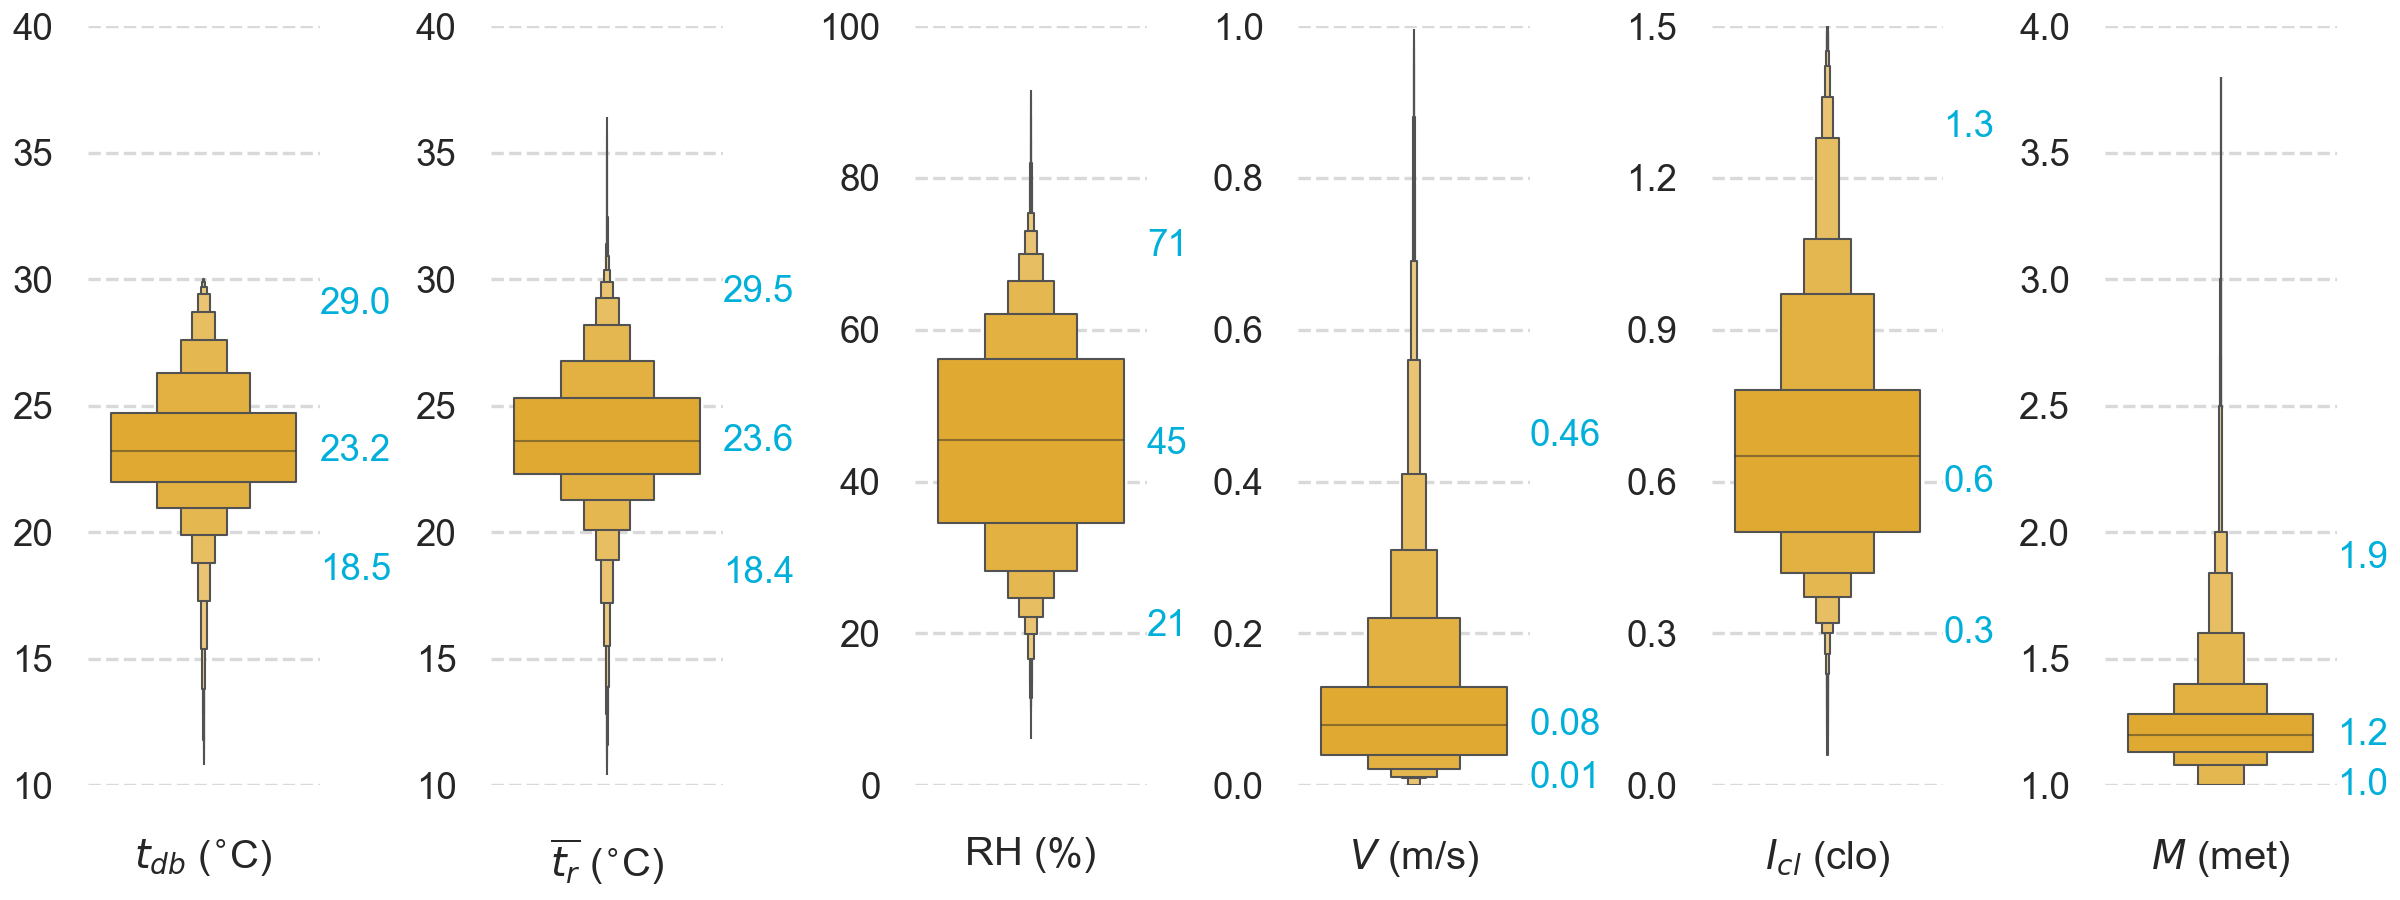
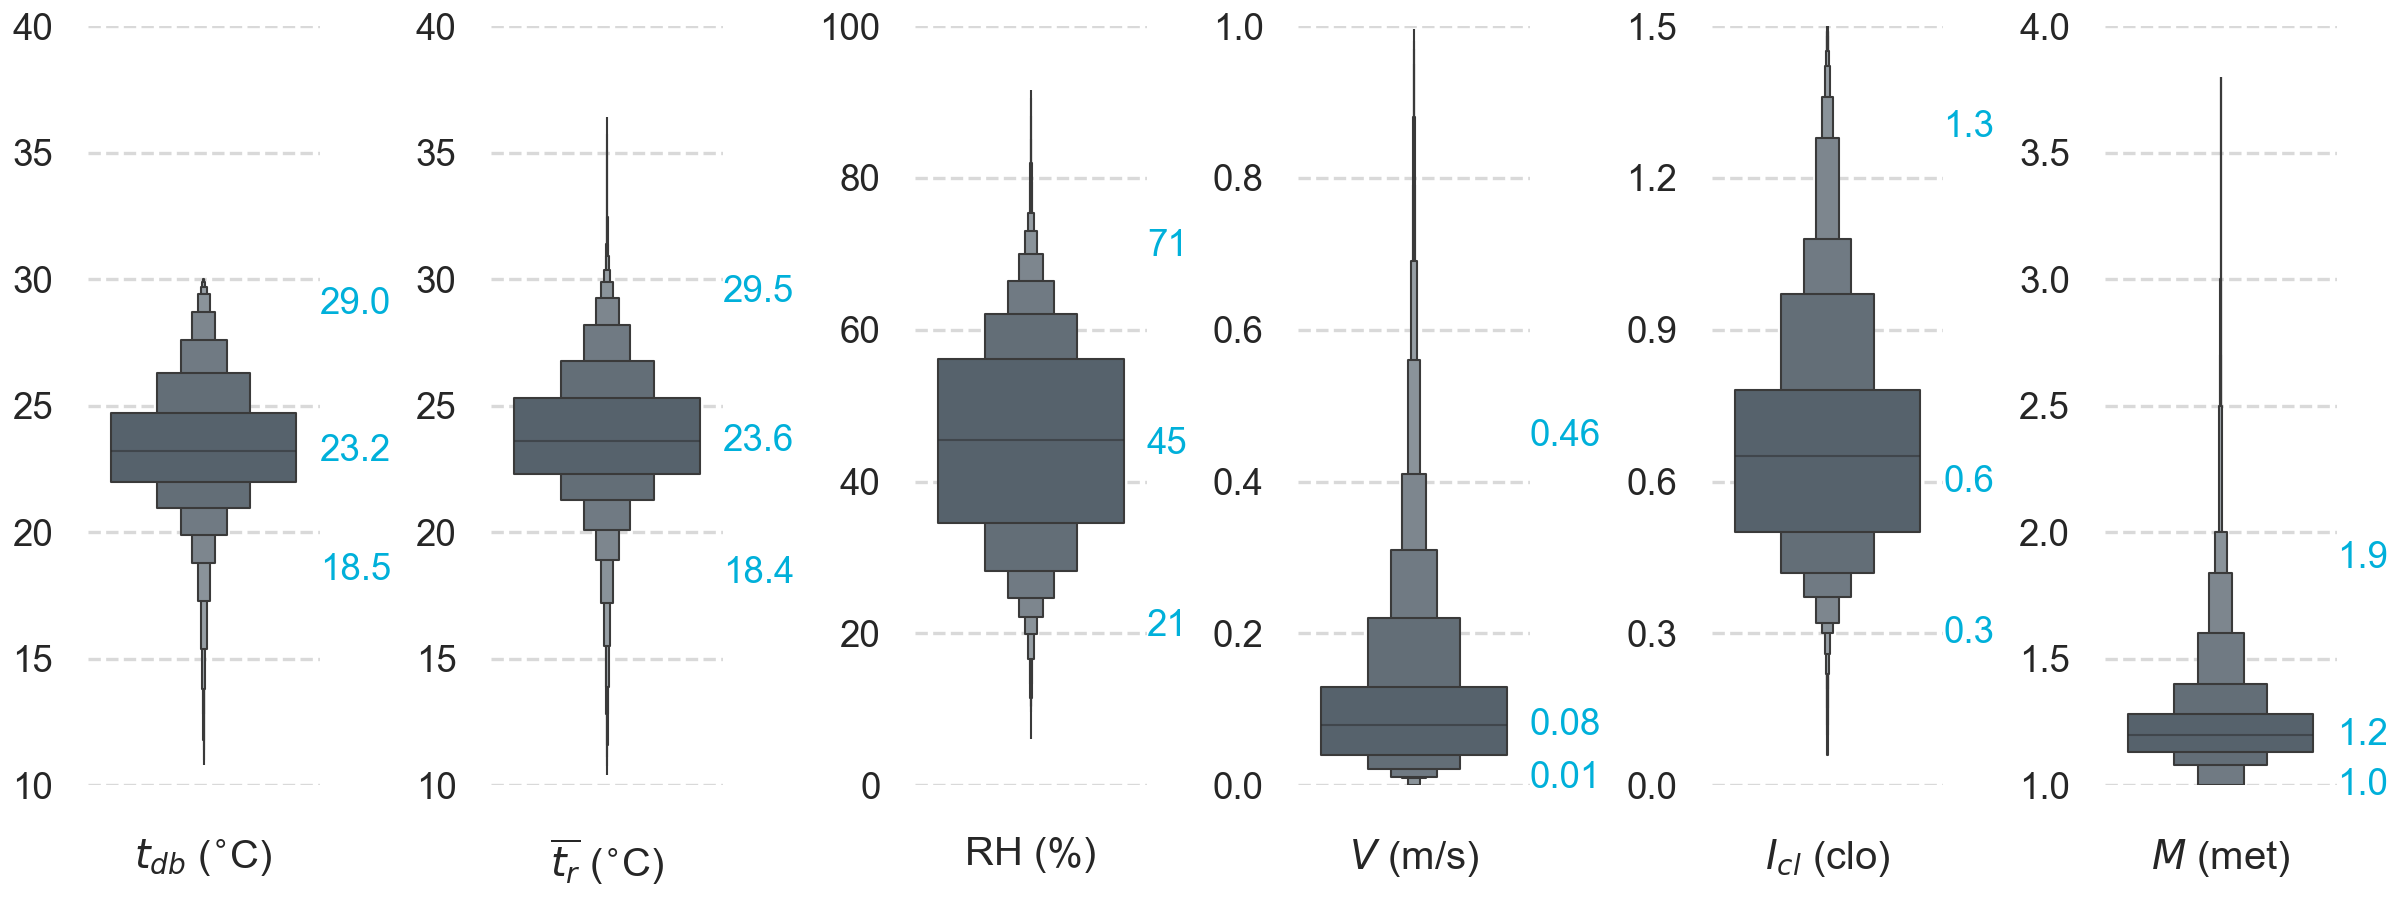
paper: updated more figures

diff --git a/Manuscript/src/sections/results.tex b/Manuscript/src/sections/results.tex
@@ -97,7 +97,9 @@ Being the classification problem unbalanced, the simple accuracy is not an optim
 A model that would have always predicted `neutral' would have achieved an overall accuracy of \var{perc_tsv_neutral}, the number of participants who voted \ac{tsv}=0.
 For this reason, in Table~\ref{tab:f1}, we report the F1-scores for all the models.
 The F1-macro score, which is free from label imbalance, depicts that the accuracy of both models across all metrics is marginally better than random guessing (i.e., \qty{14}{\percent}).
-% todo in the table I should also report the F1 scores if I filter out some of the TSV. The PMV model should only be used in the range -2 and 2 so at least we should report also the results in this range.
+% todo:
+%  in the table I should also report the F1 scores if I filter out some of the TSV.
+%  The PMV model should only be used in the range -2 and 2 so at least we should report also the results in this range.
 \begin{table}[htb!]
     \centering
     \input{tables/f1.tex}
@@ -114,7 +116,8 @@ Based on the results, we suggest that the Standards applicability limits could b
 
 Grouping the results into discrete categories introduces rounding errors since some participants reported \ac{tsv} on a continuous scale and the \ac{pmv} value is a continuous variable.
 To compensate for this we plotted the \ac{pmv} and \ac{pmv-ce} values as a function of \ac{tsv} in Figure~\ref{fig:bubble_models_vs_tsv} and we plotted a \ac{lowess} curve.
-% todo I would not use grey for the data, it is too similar to the gridlines. A light color is fine, light brown (depending on the color pallet used in the rest of the paper) could work. The regression line could be done even thicker. Be more explicit in the graph of what is measured and what is calculated. The Y axis should be labeled as PMV
+% todo:
+%  Be more explicit in the graph of what is measured and what is calculated.
 
 \begin{figure*}[htb!]
     \centering
@@ -133,7 +136,7 @@ We discuss in detail in sub-Section~\ref{subsec:sources-of-error} which factors 
 
 The intended aim of the \ac{pmv} model is not to accurately predict each individual thermal response from participants.
 The \ac{pmv} model was developed to predict the average thermal sensation of an undefined large group of occupants sharing the same environment.
-Consequently, while the above-mentioned analysis is needed to compare for the same sample size in each thermal sensation group the \ac{pmv} and \ac{pmv-ce} accuracies, it focuses primarily on comparing individual \ac{tsv} to \ac{pmv}. 
+Consequently, while the above-mentioned analysis is needed to compare for the same sample size in each thermal sensation group the \ac{pmv} and \ac{pmv-ce} accuracies, it focuses primarily on comparing individual \ac{tsv} to \ac{pmv}.
 This type of analysis does not conclusively disprove the inefficacy of the \ac{pmv} models in predicting the average thermal sensation of a large group of occupants.
 This was already done in \mycite{Cheung2019}, where they grouped people based on the same thermal environment (same \ac{pmv} ranges), not the same thermal sensation vote as we did here, and then quantified how many times the \ac{pmv} model correctly predicted \ac{tsv}. 
 They found that the accuracy of \ac{pmv} in predicting \ac{tsv} was only \qty{34}{\percent} \mycite{Cheung2019}. 
@@ -142,7 +145,12 @@ They found that the accuracy of \ac{pmv} in predicting \ac{tsv} was only \qty{34
 \subsubsection{Model Overall Bias}\label{subsec:model-overall-bias}
 We calculated the overall bias of the model as previously done by \mycite{Humphreys2002} by subtracting the \ac{pmv} and  \ac{pmv-ce} models prediction from the self-reported \ac{tsv}.
 Results are presented in Figure~\ref{fig:hist_discrepancies}.
-% todo You need to check of the four distibution are normally distributed, if so, report mean and SD, if not report median and IQR, no need to report all of them. I guess that Pswetest is an indication of this, so, for the entire dataset it seems that it is not sufficiently normally distributed, so report only median and IQR. The Pswetest This index is not reported, explained, and interpreted in the paper. I would like to have these figure a bit longer in the Y-axis. they are kind of squized. The word "delta" does not mean difference. So, I suggest to use "diffference" or just show the equation Bias=PMVi-TSVi. 1) Can this chart be transformed in a letter value plot? The Caption is missing
+% todo:
+%  You need to check of the four distibution are normally distributed, if so, report mean and SD, if not report median and IQR, no need to report all of them.
+%  I guess that Pswetest is an indication of this, so, for the entire dataset it seems that it is not sufficiently normally distributed, so report only median and IQR.
+%  The Pswetest This index is not reported, explained, and interpreted in the paper.
+%  Can this chart be transformed in a letter value plot?
+%  The Caption is missing
 \begin{figure*}[htb!]
     \centering
     \includegraphics[width=\textwidth]{figures/hist_discrepancies}

diff --git a/main.py b/main.py
@@ -1409,7 +1409,7 @@ def scatter_plot(data, ind="tsv", x_jitter=0):
             va="center",
         )
 
-        color = "#FDB515"
+        color = "#53626F"
         if model == "pmv":
             color = "#3B7EA1"
 
@@ -1459,7 +1459,7 @@ def plot_error_prediction(data):
         split=True,
         hue="model",
         inner="quartile",
-        palette=["#3B7EA1", "#FDB515"],
+        palette=["#3B7EA1", "#53626F"],
     )
     acceptable_error = 0.5
     axs.fill_between(
@@ -1496,7 +1496,7 @@ def plot_error_prediction(data):
     axs.legend(
         handles=[
             patches.Patch(color="#3B7EA1", label="PMV"),
-            patches.Patch(color="#FDB515", label="PMV$_{CE}$"),
+            patches.Patch(color="#53626F", label="PMV$_{CE}$"),
         ],
         frameon=False,
         loc=1,
@@ -1572,7 +1572,7 @@ def plot_distribution_variable():
 
     for ix, var in enumerate(["ta", "tr", "rh", "vel", "clo", "met"]):
         sns.boxenplot(
-            y=var, data=df, ax=axs[ix], color="#FDB515", showfliers=False, linewidth=0.5
+            y=var, data=df, ax=axs[ix], color="#53626F", showfliers=False, linewidth=0.5
         )
         axs[ix].set(
             ylabel="",
@@ -1622,7 +1622,7 @@ def plot_distribution_variable():
     f, axs = plt.subplots(1, 4, figsize=(8, 3))
     for ix, var in enumerate(["age", "ht", "wt", "t_mot_isd"]):
         sns.boxenplot(
-            y=var, data=df, ax=axs[ix], color="#FDB515", showfliers=False, linewidth=0.5
+            y=var, data=df, ax=axs[ix], color="#53626F", showfliers=False, linewidth=0.5
         )
         axs[ix].set(xlabel=var_names[var], xticks=[], ylabel="")
         if var == "age":
@@ -1652,6 +1652,7 @@ def plot_distribution_variable():
 
 
 def plot_bubble_models_vs_tsv():
+    plt.close("all")
     # Scatter thermal_sensation vs pmv prediction
     f, axs = plt.subplots(
         1, len(models_to_test), sharex=True, sharey=True, constrained_layout=True
@@ -1673,23 +1674,22 @@ def plot_bubble_models_vs_tsv():
             pd.IntervalIndex(df_plot.index.get_level_values("y_binned")).mid,
             s=df_plot / 20,
             alpha=0.5,
-            c="darkgray",
+            c="#53626F",
         )
         sns.regplot(
             x="thermal_sensation",
             y=model,
             data=df,
             ax=axs[ix],
-            # robust=True,
             ci=None,
-            line_kws={"color": "k"},
-            scatter_kws={"s": 1},
+            line_kws={"color": "k", "linewidth": 2},
             scatter=False,
             lowess=True,
         )
         axs[ix].axvline(0, c="darkgray", ls="--")
         axs[ix].axhline(0, c="darkgray", ls="--")
         axs[ix].set(title=var_names[model], ylabel="", xlabel="")
+    axs[0].set(ylabel="PMV value")
     f.supxlabel(var_names["thermal_sensation"])
 
     plt.savefig(f"./Manuscript/src/figures/bubble_models_vs_tsv.png", dpi=300)
@@ -2030,7 +2030,12 @@ def plot_bias_distribution_whole_db(hb_models=False):
 
     # plot bias distribution
     f, axes = plt.subplots(
-        2, len(models), sharex=True, sharey="row", constrained_layout=True
+        2,
+        len(models),
+        sharex=True,
+        sharey="row",
+        constrained_layout=True,
+        figsize=(7, 4.5),
     )
 
     for row, v in enumerate([0, 0.2]):
@@ -2070,7 +2075,7 @@ def plot_bias_distribution_whole_db(hb_models=False):
             )
             axs[ix].grid(axis="x")
 
-    f.supxlabel("Delta between PMV and TSV")
+    f.supxlabel(r"Difference between PMV$_i$ and TSV$_i$")
     plt.savefig(f"./Manuscript/src/figures/{fig_name}.png", dpi=300)
 
 
